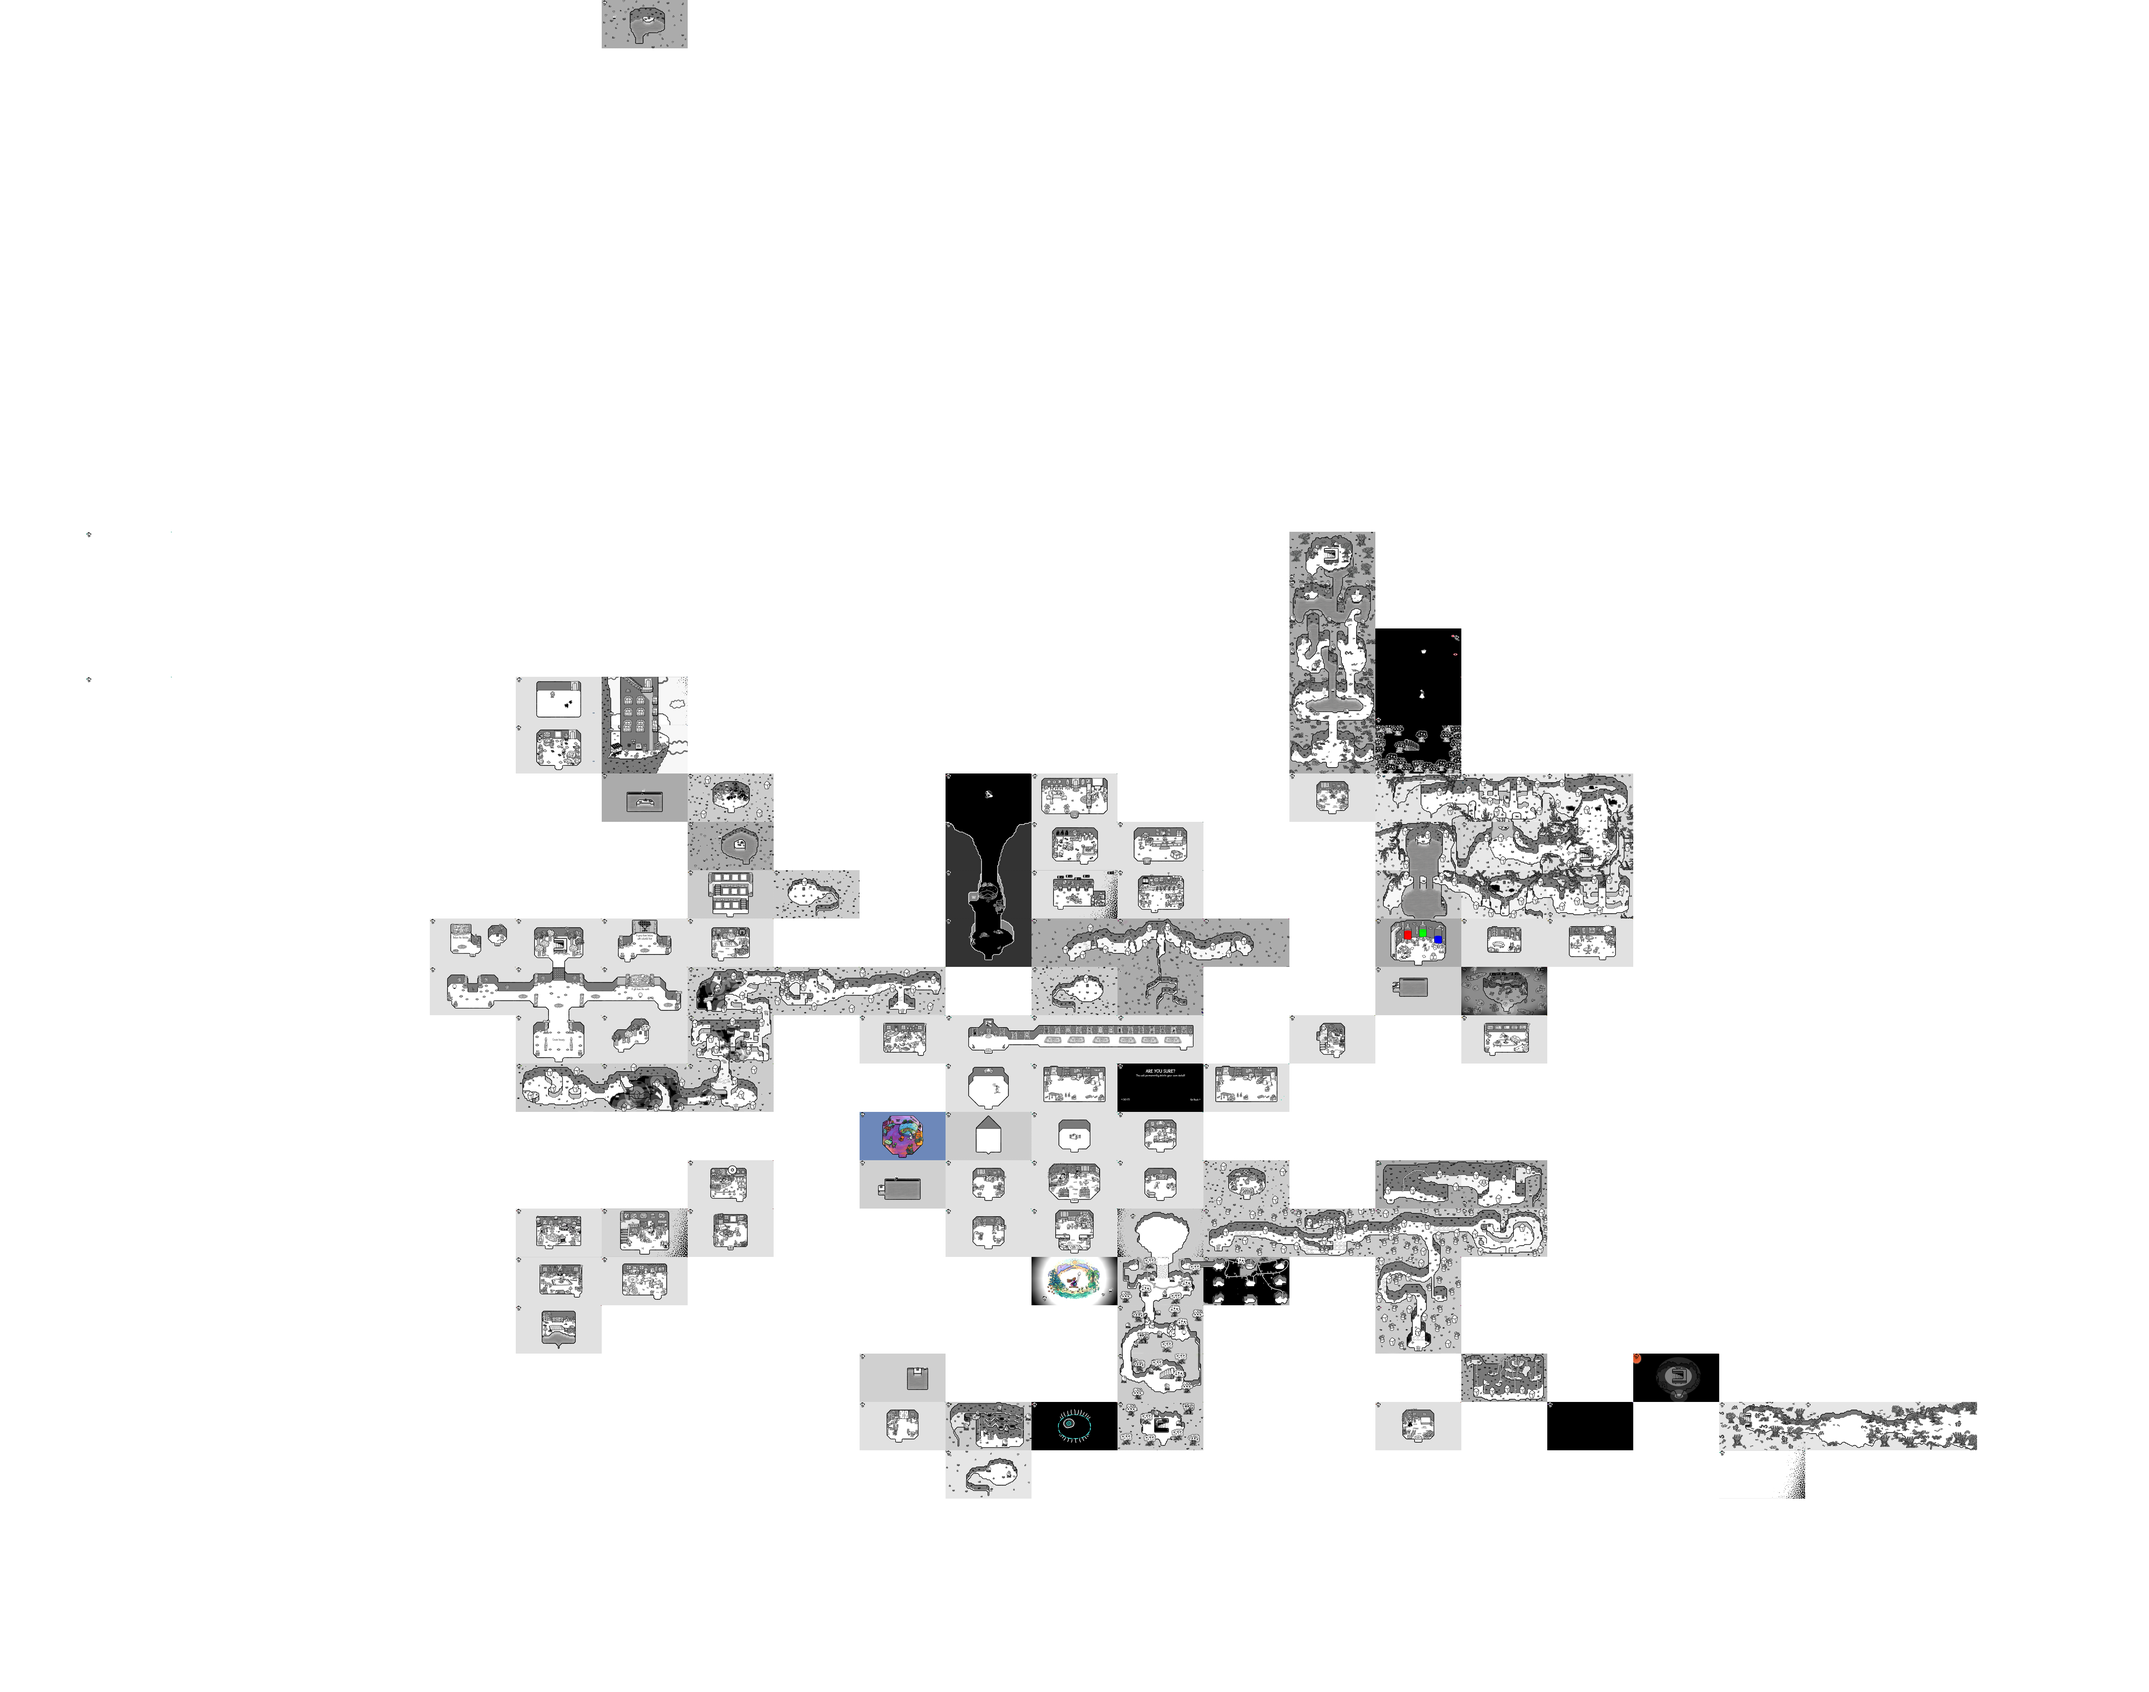
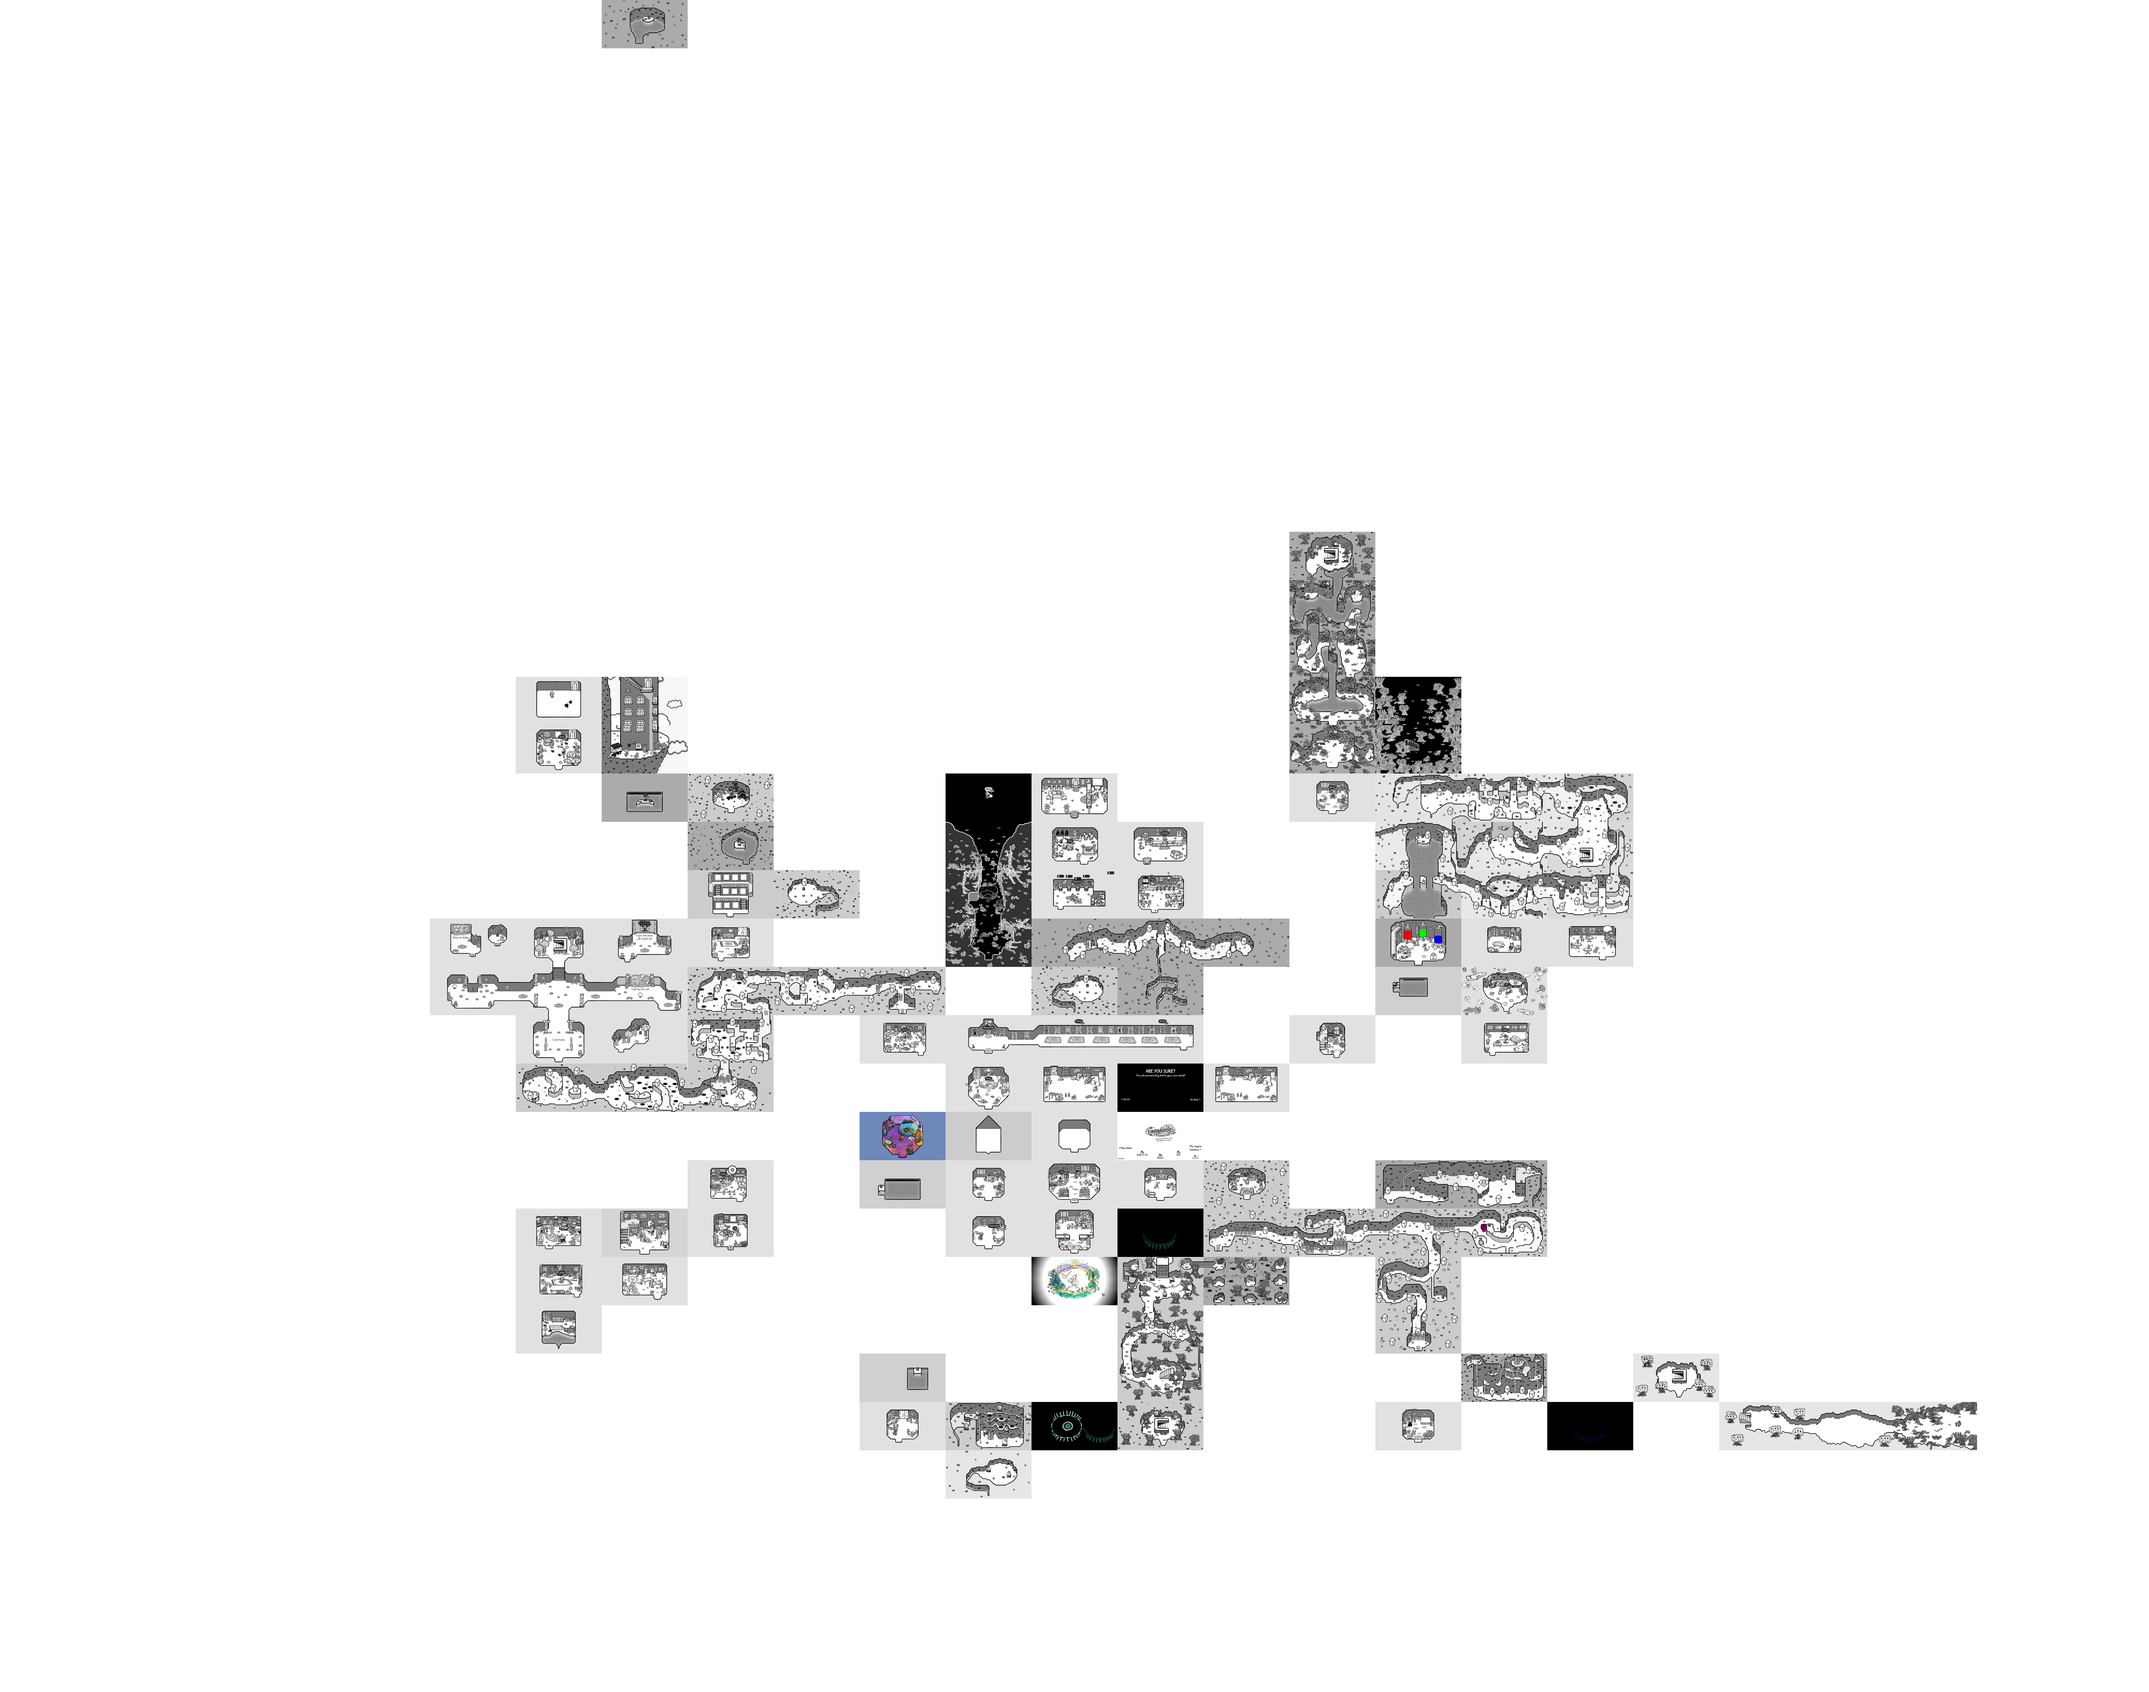
Updated Maps

diff --git a/index.html b/index.html
@@ -2,23 +2,23 @@
 <head>
     <title>Save viewer for Chicory: A Colorful Tale</title>
     <meta property="og:title" value="Chicory: A Colorful Tale Map">
-    <meta property="og:description" value="Chicory: A Colorful Tale map for litter and gifts with save loading!">
+    <meta property="og:description" value="Chicory: A Colorful Tale map for litter, gifts and lost kids with save loading!">
     <link rel="stylesheet" href="style.css">
     <script src="https://unpkg.com/scrollbooster@2/dist/scrollbooster.min.js"></script>
 </head>
 <body>
     <h2 id=title class=textthing>Chicory Map</h2>
-    <h6 id=subtitle class=textthing>With litter, gifts and save viewing!</h6>
+    <h6 id=subtitle class=textthing>With litter, gifts, lost kids and save viewing!</h6>
     <div class=menubar>
-        
+
         <label for="file" class="save-load">Load Save File (_playdata)</label><input type=file id=file accept="_playdata"><a id=info>&nbsp;&nbsp;🛈</a>
         <br>
         <br>
         <div class=mapControls>
-            <a onclick="toCenter();" href="#">To Center</a> | 
-            <a onclick="changeLayer(0)" href="#">Surface</a> | 
-            <a onclick="changeLayer(1)" href="#">Layer 1</a> | 
-            <a onclick="changeLayer(2)" href="#">Layer 2</a> | 
+            <a onclick="toCenter();" href="#">To Center</a> |
+            <a onclick="changeLayer(0)" href="#">Surface</a> |
+            <a onclick="changeLayer(1)" href="#">Layer 1</a> |
+            <a onclick="changeLayer(2)" href="#">Layer 2</a> |
             <a onclick="saveJson = {};change();" href="#">Reset save data</a> |
             <a onclick="centerToSelection()" href="#">To Selected</a>
         </div>
